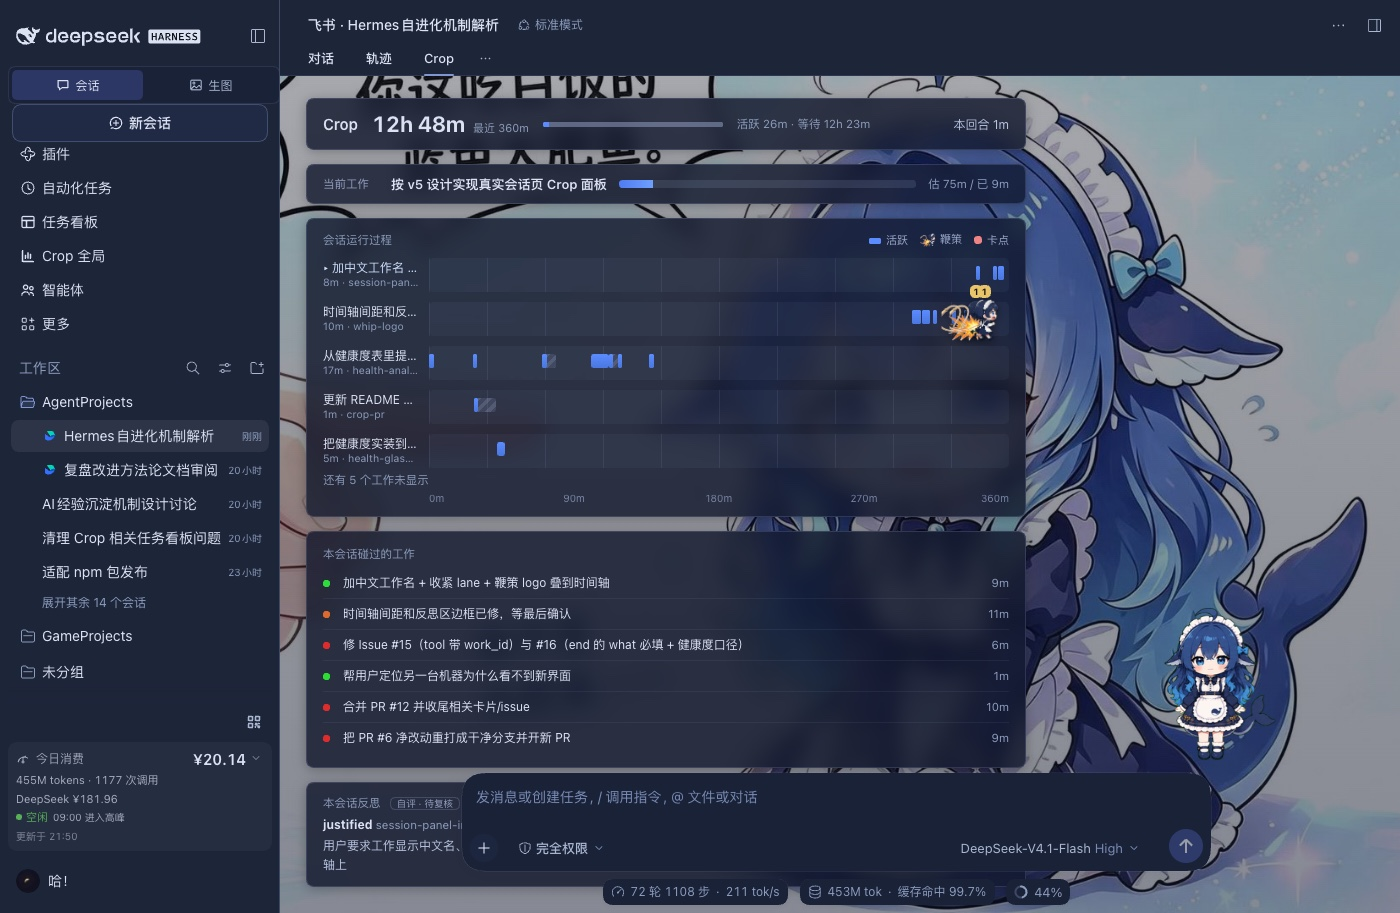
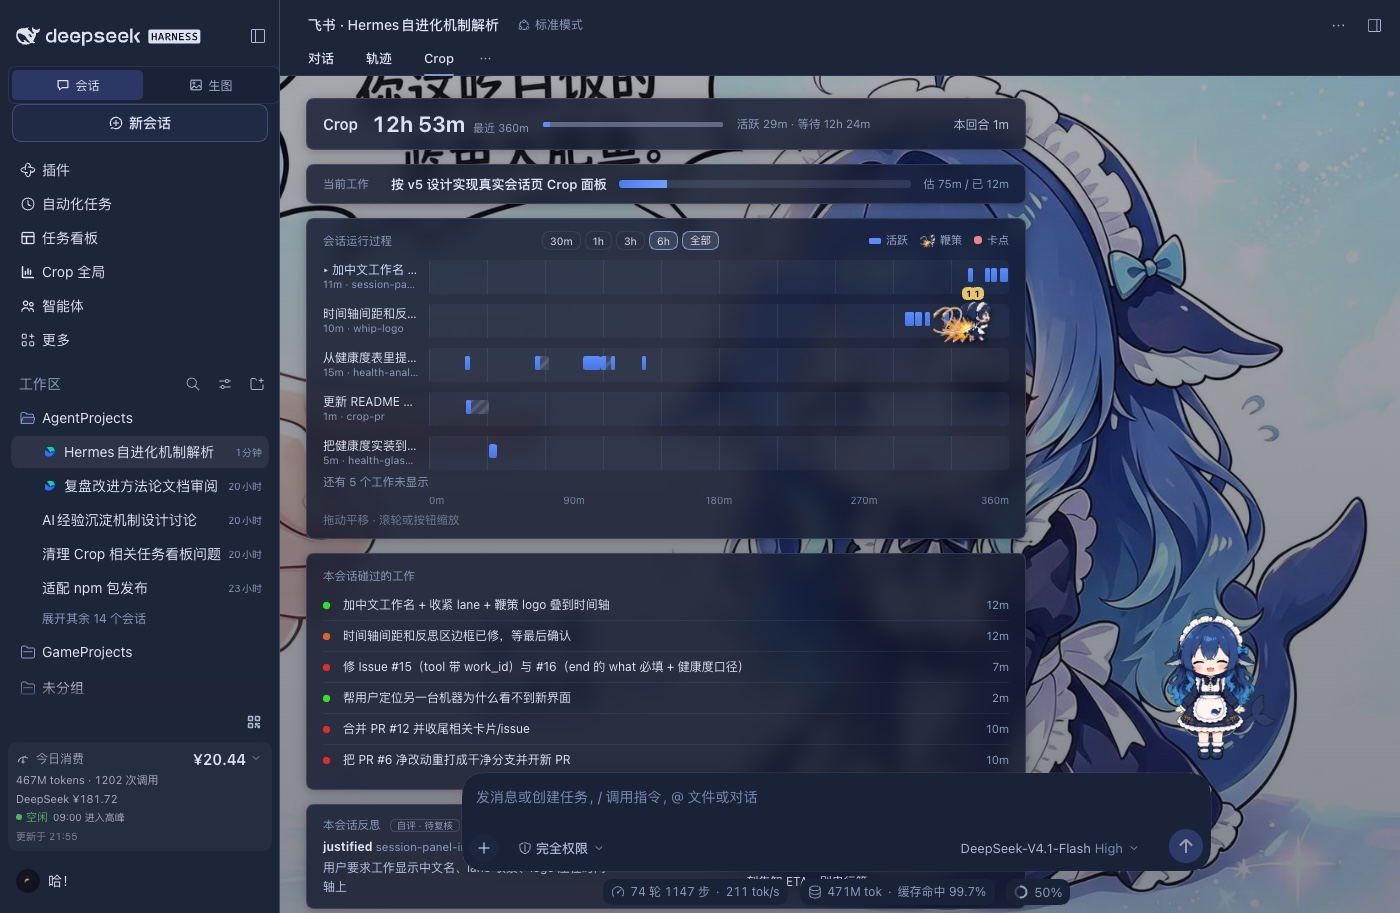
fix(panel): 缩放/拖动后补上 end 引用，改用 baseEnd 算墙钟

diff --git a/dsh/lib/client.js b/dsh/lib/client.js
@@ -872,7 +872,7 @@ body[data-ds-dark-theme] .crop-page .crop-card {
           h('div', { className: 'crop-tl-track' }, h('div', { className: 'crop-tl-grid' }), waitSegments, segments, marks, blocked));
       });
 
-      const wall = Math.max(0, end - started);
+      const wall = Math.max(0, baseEnd - started);
       const activeMs = (data.work_minutes || 0) * 60000;
       const waitMs = Math.max(0, wall - activeMs);
       const head = h('div', { key: 'head', className: 'crop-card crop-sess-head' },
